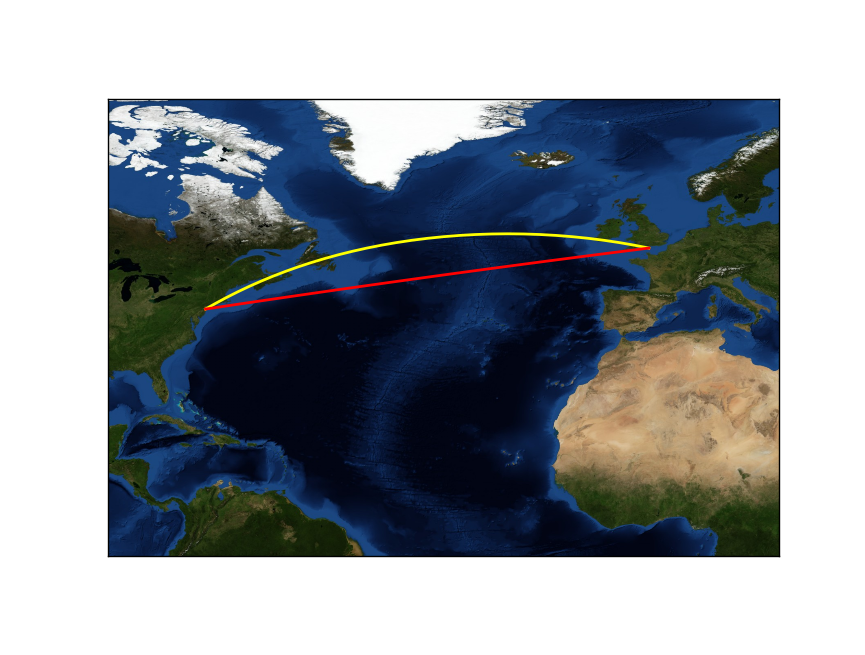
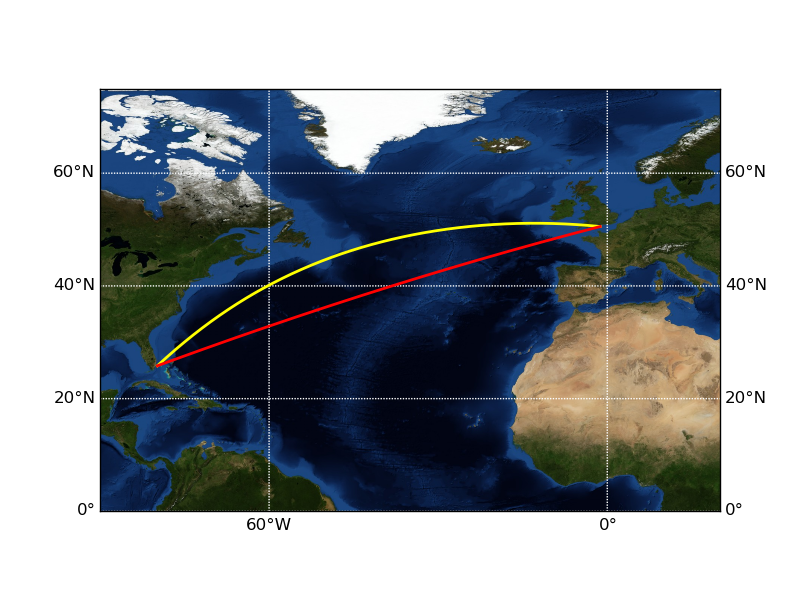
Changed example route to Southampton--Miami.
Added paragraphs about practical error in spherical projections,
and about the next blog post

diff --git a/_sources/2014/12/23/geodetic_calculations.rst b/_sources/2014/12/23/geodetic_calculations.rst
@@ -24,7 +24,7 @@ The need for accurate geodetic computations
 On a traditional Mercator projection [#]_ map, such as the one shown in `Figure 1`_,
 transatlantic navigation seems simple: just measure the angle between
 your current location and the target, take a compass heading and steam on.
-The red line on `Figure 1`_ shows the rhumb line [#]_ between Southampton and New York.
+The red line on `Figure 1`_ shows the rhumb line [#]_ between Southampton and Miami.
 Indeed, due to its simplicity, that still is a commonly used navigation method.
 At this day, though, it's not really smart. If you draw the same route on a
 different projection, such as the orthographic projection [#]_ in `Figure 2`_, it
@@ -46,9 +46,9 @@ The shortest route between two points on a spherical surface is along the
 great circle [#]_, shown on `Figure 1`_ and `Figure 2`_ by the yellow lines. As indicated by the
 curved line on the Mercator projection, the compass
 heading varies along the great circle route, but nevertheless, that is the
-optimal route to take. The rhumb line distance in our example is 3106
-nautical miles (nmi), while the great circle distance is 2992 nmi,
-a difference of 3.7%. On a suitable leg, the distance difference might be
+optimal route to take. The rhumb line distance in our example is 3932
+nautical miles (nmi), while the great circle distance is 3804 nmi,
+a difference of 3.4%. On a suitable leg, the distance difference might be
 considerably higher.
 
 .. [#] http://en.wikipedia.org/wiki/Great_circle
@@ -70,14 +70,20 @@ less than 0.3%) if spherical assumption is used. Since the fuel savings
 provided by `Eniram`_'s products are in the order of 2--6%, we definitely don't
 have a sufficient margin to allow that kind of errors in our calculations.
 
+As a practical example, on the Southampton--Miami voyage, the distance measured
+on a WGS84 geoid is 6.6 nmi larger than on a spherical surface, an error of
+0.17%. This error corresponds to 20--30 minutes of increased travel time,
+or close to 1500-2000 USD of fuel costs on a big ship -- certainly nothing to
+sneer at.
+
 .. [#] http://en.wikipedia.org/wiki/Figure_of_the_Earth
 .. _Eniram: http://www.eniram.fi
 
-At this point, the great circle calculations get really complex.
+On ellipsoid surfaces, the great circle calculations get really complex.
 No closed-form formula exist for most of the problems, and
 numerical solutions must be used. Of course, excellent libraries performing
 all the required calculations for different ellipsoids exist, e.g. `proj.4`_
-(FIXME: link) and its Python bindings, pyproj_. However, the
+and its Python bindings, pyproj_. However, the
 numerical formula are much slower than the analytical ones. Many common
 operations require a massive amount of geodetic calculations. For example, to
 simply find out the distance remaining, we need to project the ship's actual location
@@ -134,3 +140,9 @@ insufficient accuracy, or a really accurate implementation running with a
 glacial speed. By designing our implementation carefully, we are able to get
 the best of the both worlds.
 
+The calculations above leave much room for improvement regarding performance.
+Direct Numpy implementation of the analytic spherical formula, even when
+vectorized, requires multiple temporary arrays to store the intermediate results.
+The ellipsoid versions do not run vectorized at all, but need to be looped
+instead. In the next blog post, we will pluck some low-hanging performance fruit
+by re-implementing our geodesy calculations in Cython.
